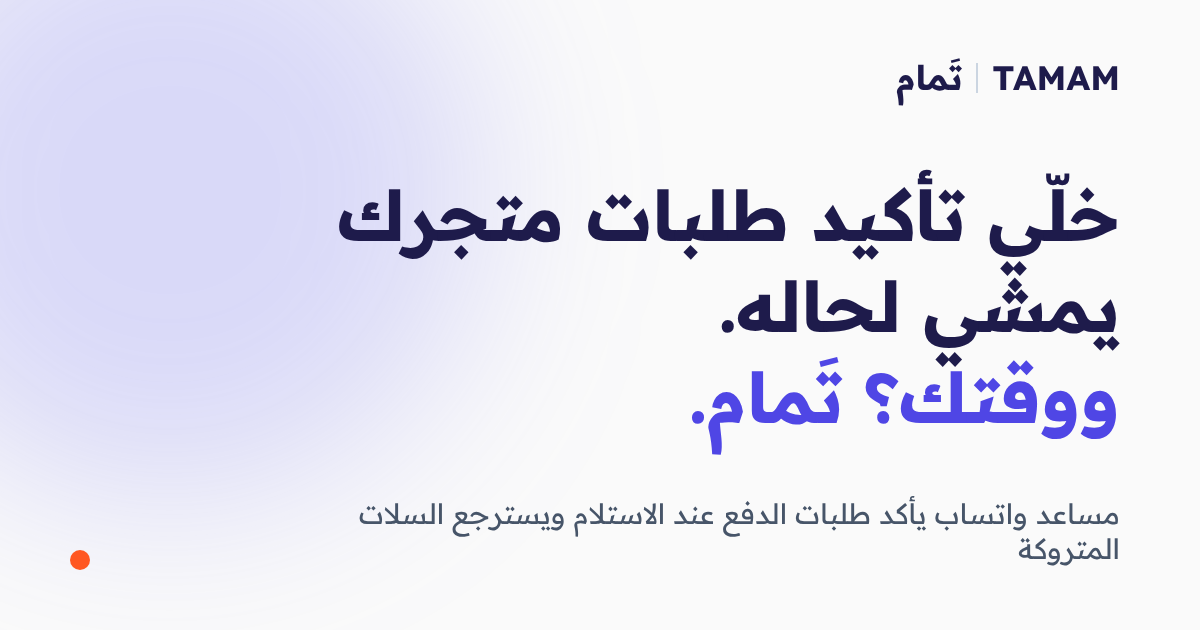
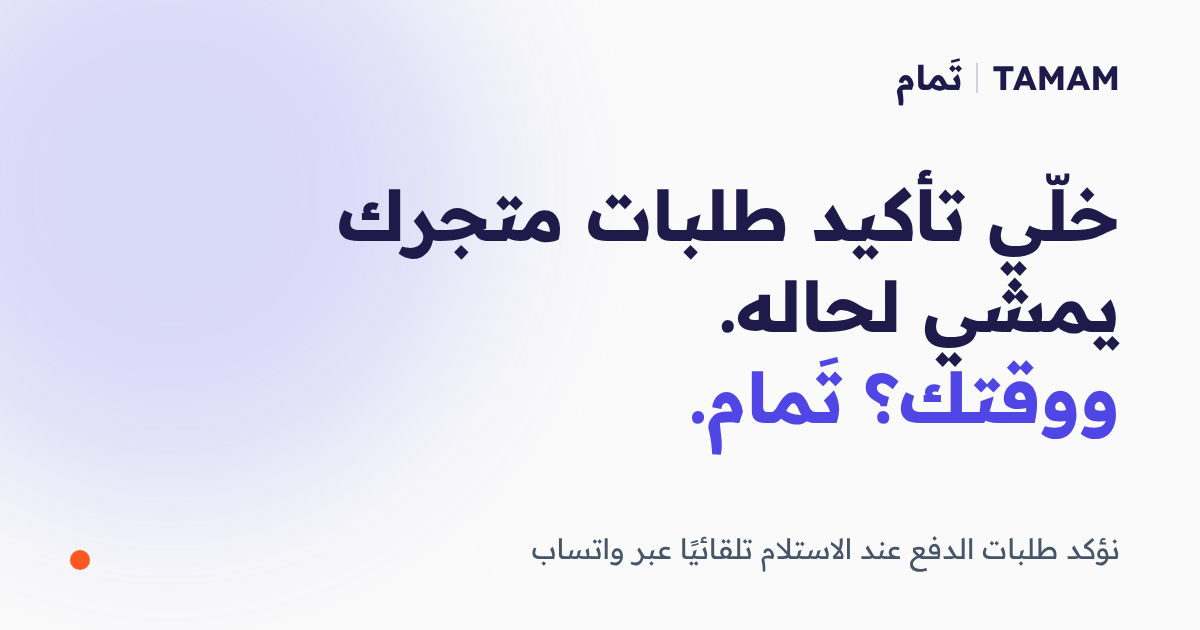
feat(store): single COD-confirmation offer with merchant-facing outputs; page copy aligned to COD

Changed region(s): [[0.3083, 0.7841, 0.925, 0.9048]]

diff --git a/src/niches.ts b/src/niches.ts
@@ -47,6 +47,8 @@ export interface NicheContent {
   packages: Record<string, { name?: string; promise?: string; features?: string[]; badge?: string }>;
   /** Replaces the default 3 package cards entirely (used when a niche sells several separate services). */
   packagesList?: PackageItem[];
+  /** Optional heading override for the packages section. */
+  packagesHeader?: { title: string; sub: string };
   work: {
     real: boolean;
     title: string;
@@ -674,63 +676,70 @@ export const NICHES: Record<NicheId, NicheContent> = {
     audience:
       'ابعته لمتجر يبيع بحدود ١٠ طلبات باليوم أو أكثر، وعنده طلبات دفع عند الاستلام بالمئات شهريًا. المتجر الصغير ما يوفّر له الحل أكثر من تكلفته.',
     meta: {
-      title: 'TAMAM | تَمام — أتمتة المتاجر الإلكترونية: تأكيد الطلبات والسلات',
+      title: 'TAMAM | تَمام — تأكيد طلبات الدفع عند الاستلام عبر واتساب',
       description:
-        'مساعد واتساب لمتجرك يأكد طلبات الدفع عند الاستلام، يسترجع السلات المتروكة، ويرد على «وين طلبي؟» — وفريقك يركّز على البيع.',
+        'نؤكد طلبات الدفع عند الاستلام تلقائيًا عبر واتساب خلال دقائق من الطلب، ونحدّث حالة الطلب في متجرك، وننبّهك للطلبات غير المؤكدة.',
       ogImage: '/og-store.png',
     },
     hero: {
       line1: 'خلّي تأكيد طلبات متجرك يمشي لحاله.',
-      sub: 'مساعد على واتساب يأكد طلبات الدفع عند الاستلام قبل الشحن، يسترجع السلات المتروكة، ويرد على «وين طلبي؟» — وفريقك يركّز على البيع.',
+      sub: 'نؤكد طلبات الدفع عند الاستلام تلقائيًا عبر واتساب خلال دقائق من الطلب، ونحدّث حالة الطلب في متجرك، وننبّهك للطلبات غير المؤكدة — وفريقك يركّز على البيع.',
     },
     chat: {
       contactName: 'متجر الأناقة',
       avatarLetter: 'م',
       clock: '11:02',
       bookedTitle: 'تم تأكيد الطلب',
-      bookedSub: 'جاهز للشحن',
+      bookedSub: 'وتحدّثت حالته في متجرك',
       messages: [
-        { from: 'agent', text: 'هلا أحمد، وصلنا طلبك: عباية كلاسيك، ١٨٩ ر.س عند الاستلام. نأكد الطلب؟', time: '١١:٠٢' },
-        { from: 'customer', text: 'نعم، أكّد', time: '١١:٠٣' },
+        { from: 'agent', text: 'هلا أحمد، وصلنا طلبك: عباية كلاسيك، ١٨٩ ر.س عند الاستلام. اختر: تأكيد، إلغاء، أو تعديل العنوان.', time: '١١:٠٢' },
+        { from: 'customer', text: 'تأكيد', time: '١١:٠٣' },
         { from: 'agent', text: 'تم تأكيد طلبك ✓ نجهزه للشحن ويوصلك رقم التتبع قريبًا.', time: '١١:٠٣' },
         { from: 'customer', text: 'تسلم، بانتظاره', time: '١١:٠٤' },
       ],
     },
-    ribbon: ['تأكيد طلبات COD', 'استرجاع السلات', 'وين طلبي؟', 'ربط الشحن والفواتير'],
+    ribbon: ['تأكيد عبر واتساب', 'تحديث حالة الطلب', 'تنبيه غير المؤكد', 'تقرير يومي'],
     pain: {
-      title: 'الطلبات الغلط والرسائل… تاخذ وقتك من البيع',
-      sub: 'طلبات دفع عند الاستلام ترجع، وسلات تنترك بدون إكمال، وأسئلة «وين طلبي؟» ما تخلص — تفاصيل صغيرة تكلّف المتجر شحن وفرص بيع.',
+      title: 'الطلب اللي ما انأكد… يكلّفك شحن ووقت',
+      sub: 'طلبات دفع عند الاستلام بعناوين غلط أو بدون نية شراء، وشحنات ترجع، وتأكيد يدوي ياخذ وقت فريقك — مشكلة تشغيلية تتكرر كل يوم.',
       closing: 'تحوّل هذي الخطوات المتكررة إلى نظام يمشي مع متجرك.',
       items: {
         'endless-messages': {
-          title: 'أسئلة «وين طلبي؟» ما تخلص',
-          description: 'تتبع الطلبات وتصحيح العناوين وأسئلة متكررة، والرد ياخذ ساعات من يومك.',
-          indicator: 'استفسارات متكررة',
+          title: 'تأكيد يدوي ياخذ وقتك',
+          description: 'تتصل أو تراسل كل عميل لتأكد طلبه، ويضيع وقت الفريق على شغل يتكرر.',
+          indicator: 'تأكيد يدوي',
         },
         'missed-followups': {
-          title: 'سلات تنترك بدون شراء',
-          description: 'عميل أضاف منتج للسلة وطلع، وما أحد ذكّره يكمل طلبه.',
-          indicator: 'مبيعات ضايعة',
+          title: 'طلبات وهمية وعناوين غلط',
+          description: 'طلبات دفع عند الاستلام بعناوين غلط أو بدون نية شراء حقيقية.',
+          indicator: 'طلبات وهمية',
         },
         'repetitive-tasks': {
-          title: 'طلبات وهمية وشحنات راجعة',
-          description: 'طلبات دفع عند الاستلام بعناوين غلط أو ما أحد يستلمها، وتتحمل شحن الذهاب والرجوع.',
-          indicator: 'طلبات راجعة',
+          title: 'شحنات راجعة وخسارة شحن',
+          description: 'الطلب ينشحن وما أحد يستلمه، وتتحمل شحن الذهاب والرجوع.',
+          indicator: 'شحن ضايع',
         },
       },
     },
     packages: {},
+    packagesHeader: {
+      title: 'عرض واحد يحل مشكلة الدفع عند الاستلام',
+      sub: 'مو ميزة تقنية، حل تشغيلي لمشكلة تكلّفك كل شهر.',
+    },
     packagesList: [
       {
         id: 'store-cod-confirmation',
         name: 'تأكيد طلبات الدفع عند الاستلام',
-        badge: 'تأكيد الطلبات',
-        promise: 'كل طلب دفع عند الاستلام يتأكد من العميل قبل الشحن، وما تشحن إلا الطلب المؤكد.',
+        badge: 'عرض تأكيد COD',
+        promise:
+          'نؤكد طلبات الدفع عند الاستلام تلقائيًا عبر واتساب خلال دقائق من الطلب، ونحدّث حالة الطلب في متجرك، ونرسل تنبيهًا للطلبات غير المؤكدة.',
+        featuresTitle: 'اللي تستلمه كتاجر:',
         features: [
-          'رسالة واتساب للعميل فيها المنتج والمبلغ، ويرد بـ«نعم» للتأكيد.',
-          'الطلب ينشحن بعد التأكيد فقط.',
-          'الطلب غير المؤكد يتحول لموظف يتابعه.',
-          'ربط مع منصة متجرك لاستقبال الطلبات تلقائيًا.',
+          'رسالة واتساب فورية بعد طلب الدفع عند الاستلام.',
+          'أزرار: تأكيد / إلغاء / تعديل العنوان / اتصل بي.',
+          'تحديث الطلب تلقائيًا في سلة أو زد أو Shopify.',
+          'تنبيه للمسؤول عند عدم الرد بعد فترة محددة.',
+          'تقرير يومي: عدد الطلبات، نسبة التأكيد، الطلبات الملغاة، والطلبات اللي ما رد عليها العميل.',
         ],
         ctaLabel: 'كلّمنا عن شغلك',
         value: 'ما تشحن إلا طلب أكّده العميل.',
@@ -739,106 +748,17 @@ export const NICHES: Record<NicheId, NicheContent> = {
         duration: 'أسبوع',
         durationNote: 'من الاتفاق لين التشغيل',
       },
-      {
-        id: 'store-abandoned-cart',
-        name: 'استرجاع السلات المتروكة',
-        badge: 'سلات متروكة',
-        promise: 'عميل ترك سلته؟ يوصله تذكير على واتساب برابط إكمال الطلب.',
-        features: [
-          'تذكير واتساب بالسلة المتروكة مع صورة المنتج ورابط الدفع.',
-          'رسالة ثانية وثالثة لمتابعة العميل حسب الاتفاق.',
-          'الرسائل التسويقية بموافقة العميل وحسب سياسات واتساب.',
-          'ربط مع منصة متجرك لمعرفة السلات المتروكة.',
-        ],
-        ctaLabel: 'كلّمنا عن شغلك',
-        value: 'مبيعات كانت راح تضيع ترجع لك.',
-        price: '١٢٠ دولار',
-        priceNote: 'رسوم إعداد لمرة وحدة، غير شامل رسوم رسائل واتساب',
-        duration: '٥ أيام',
-        durationNote: 'من الاتفاق لين التشغيل',
-      },
-      {
-        id: 'store-order-tracking',
-        name: 'بوت «وين طلبي؟» وإشعارات الشحن',
-        badge: 'تتبع الطلب',
-        promise: 'العميل يسأل عن طلبه فيوصله الرد تلقائيًا، وتوصله تحديثات الشحن بدون ما تتدخل.',
-        features: [
-          'رد تلقائي على «وين طلبي؟» بحالة الطلب الفعلية.',
-          'ربط حالة الطلب من شركة الشحن برسائل تلقائية للعميل.',
-          'رد على الأسئلة المتكررة (الشحن، الاستبدال، الدفع).',
-          'تحويل الحالات الصعبة لموظف.',
-        ],
-        ctaLabel: 'كلّمنا عن شغلك',
-        value: 'وقت خدمة العملاء يرجع لك.',
-        price: '١٠٠ دولار',
-        priceNote: 'رسوم إعداد لمرة وحدة، غير شامل رسوم رسائل واتساب',
-        duration: '٥ أيام',
-        durationNote: 'من الاتفاق لين التشغيل',
-      },
-      {
-        id: 'store-shipping-invoice',
-        name: 'ربط الطلب بالشحن والفاتورة',
-        badge: 'ربط الشحن',
-        promise: 'الطلب الجديد يولّد بوليصة الشحن والفاتورة ويرسل رقم التتبع تلقائيًا.',
-        features: [
-          'إنشاء بوليصة الشحن تلقائيًا عند وصول الطلب.',
-          'إصدار الفاتورة وإرسالها للعميل.',
-          'إرسال رقم التتبع للعميل بدون نسخ يدوي.',
-          'ربط مع منصة المتجر وشركة الشحن اللي تتعامل معها.',
-        ],
-        ctaLabel: 'كلّمنا عن شغلك',
-        value: 'ساعات نسخ البيانات اليدوي تنتهي.',
-        price: '٢٠٠ دولار',
-        priceNote: 'رسوم إعداد لمرة وحدة، يختلف حسب شركة الشحن',
-        duration: 'أسبوعين',
-        durationNote: 'حسب شركة الشحن والمنصة',
-      },
-      {
-        id: 'store-inventory-sync',
-        name: 'مزامنة المخزون',
-        badge: 'المخزون',
-        promise: 'كمية المنتج تتحدث لحالها بين كل قنوات البيع، فما ينباع منتج وهو خالص.',
-        features: [
-          'مزامنة الكميات بين الموقع والمنصات والمحل.',
-          'تحديث فوري عند كل بيع أو إرجاع.',
-          'تنبيه لما ينزل المخزون تحت حد تحدده.',
-          'مناسبة للمتاجر اللي تبيع من أكثر من قناة.',
-        ],
-        ctaLabel: 'كلّمنا عن شغلك',
-        value: 'ما ينباع منتج وهو خالص.',
-        price: '٢٥٠ دولار',
-        priceNote: 'رسوم إعداد لمرة وحدة، يختلف حسب عدد القنوات',
-        duration: 'أسبوعين',
-        durationNote: 'حسب عدد القنوات',
-      },
-      {
-        id: 'custom-automation',
-        name: 'أتمتة مخصصة',
-        badge: 'حلول مخصصة بالكامل',
-        promise: 'عندك شغل متكرر في المتجر وما لقيت له حل جاهز؟ نبني لك نظام يناسب طريقة شغلك.',
-        features: [
-          'فهم سير العمل والمهام المتكررة في المتجر.',
-          'اقتراح أتمتة مخصصة وفق الاحتياج الذي يتم الاتفاق عليه.',
-          'تحديد نطاق التنفيذ والتكلفة بعد فهم المطلوب.',
-        ],
-        ctaLabel: 'كلّمنا عن شغلك',
-        value: 'نظام مفصّل على شغلك يوفر وقتك بشكل دائم.',
-        price: 'حسب الشغل',
-        priceNote: 'نحدد السعر بعد فهم المطلوب',
-        duration: 'مفتوحة',
-        durationNote: 'نحددها بعد فهم المطلوب',
-      },
     ],
     work: {
       real: false,
       title: 'كذا يبان تأكيد الطلبات عندك.',
       sub: 'كل طلب دفع عند الاستلام يوصل العميل للتأكيد، وفريقك يشوف حالة كل طلب في مكان واحد.',
       cardTitle: 'لوحة تأكيد الطلبات',
-      desc: 'الطلب الجديد ينرسل للعميل على واتساب للتأكيد، وما ينشحن إلا المؤكد، وغير المؤكد يتحول لموظف.',
+      desc: 'الطلب الجديد ينرسل للعميل على واتساب للتأكيد، وما ينشحن إلا المؤكد، وغير المؤكد يوصلك تنبيه عنه.',
       facts: [
-        'العميل يأكد طلبه من الواتساب بكلمة وحدة.',
-        'الطلب ينشحن بعد التأكيد فقط.',
-        'الطلب غير المؤكد يتحول للفريق للمتابعة.',
+        'العميل يأكد طلبه بضغطة زر على الواتساب.',
+        'حالة الطلب تتحدث تلقائيًا في متجرك.',
+        'تنبيه لك لو العميل ما رد، وتقرير يومي بالنتائج.',
       ],
       listTitle: 'طلبات اليوم',
       rows: [
@@ -851,11 +771,11 @@ export const NICHES: Record<NicheId, NicheContent> = {
     },
     closing: {
       title: 'جاهز تخلّي تأكيد طلبات متجرك يمشي لحاله؟',
-      sub: 'قل لنا كيف تمشي الطلبات والشحن عندك اليوم، ونساعدك تكتشف وين ممكن الأتمتة توفر وقت فريقك وتقلل الطلبات الراجعة.',
+      sub: 'قل لنا كيف تمشي طلبات الدفع عند الاستلام عندك اليوم، ونساعدك تقلل الطلبات الراجعة.',
     },
-    waMessage: 'هلا تَمام، عندي متجر إلكتروني وأبغى أكلمكم عن أتمتة تأكيد الطلبات والسلات المتروكة.',
+    waMessage: 'هلا تَمام، عندي متجر إلكتروني وأبغى أكلمكم عن تأكيد طلبات الدفع عند الاستلام عبر واتساب.',
     outreach:
-      'هلا {contact}، أنا يحيى من تَمام. جهّزت لكم صفحة توضح كيف نخلّي تأكيد طلبات الدفع عند الاستلام واسترجاع السلات المتروكة يمشون تلقائيًا عبر واتساب. تفضلوا الرابط: {url}',
+      'هلا {contact}، أنا يحيى من تَمام. جهّزت لكم صفحة توضح كيف نؤكد طلبات الدفع عند الاستلام تلقائيًا عبر واتساب ونحدّث حالتها في متجركم. تفضلوا الرابط: {url}',
   },
 };
 

diff --git a/src/components/PackagesSection.tsx b/src/components/PackagesSection.tsx
@@ -3,7 +3,7 @@ import {
   Database, CalendarClock, Cpu, Check, ArrowLeft, HelpCircle, Clock,
   PackageCheck, ShoppingCart, Truck, Receipt, Boxes,
 } from 'lucide-react';
-import { TAMAM_PACKAGES } from '../utils/automation-state';
+import { TAMAM_PACKAGES, type PackageItem } from '../utils/automation-state';
 import { ScrollReveal } from './ScrollReveal';
 import { getNiche } from '../niches';
 
@@ -17,6 +17,9 @@ export const PackagesSection: React.FC<PackagesSectionProps> = ({
   onOpenConsultation,
 }) => {
   const niche = getNiche();
+  const packageList: PackageItem[] =
+    niche.packagesList ??
+    TAMAM_PACKAGES.map((basePkg) => ({ ...basePkg, ...(niche.packages[basePkg.id] ?? {}) }));
   const getPackageVisual = (id: string) => {
     switch (id) {
       case 'crm-inquiries':
@@ -84,17 +87,25 @@ export const PackagesSection: React.FC<PackagesSectionProps> = ({
             id="packages-title"
             className="text-3xl sm:text-4xl lg:text-5xl font-heading font-black text-slate-950 tracking-tight leading-[1.25] mb-4 sm:mb-5"
           >
-            حلول تناسب طريقة شغلك
+            {niche.packagesHeader?.title ?? 'حلول تناسب طريقة شغلك'}
           </h2>
           <p className="text-base sm:text-lg text-slate-600 leading-relaxed font-normal">
-            ابدأ من أكثر مهمة تستهلك وقتك، واختر النظام المناسب لعملك.
+            {niche.packagesHeader?.sub ?? 'ابدأ من أكثر مهمة تستهلك وقتك، واختر النظام المناسب لعملك.'}
           </p>
         </div>
       </ScrollReveal>
 
       {/* 3 Packages Cards with Staggered Scroll & Hover Animations */}
-      <div className="grid grid-cols-1 md:grid-cols-3 gap-6 sm:gap-8 w-full max-w-7xl mx-auto">
-        {(niche.packagesList ?? TAMAM_PACKAGES.map((basePkg) => ({ ...basePkg, ...(niche.packages[basePkg.id] ?? {}) }))).map((pkg, idx) => {
+      <div
+        className={`grid grid-cols-1 gap-6 sm:gap-8 w-full mx-auto ${
+          packageList.length === 1
+            ? 'max-w-2xl'
+            : packageList.length === 2
+              ? 'md:grid-cols-2 max-w-4xl'
+              : 'md:grid-cols-3 max-w-7xl'
+        }`}
+      >
+        {packageList.map((pkg, idx) => {
           const visual = getPackageVisual(pkg.id);
           return (
             <ScrollReveal key={pkg.id} delay={idx * 140} className="h-full">
@@ -148,7 +159,7 @@ export const PackagesSection: React.FC<PackagesSectionProps> = ({
                   {/* Features List */}
                   <div className="space-y-3 mb-8">
                     <span className="text-xs font-semibold text-slate-400 block mb-2">
-                      ما تشمله الباقة:
+                      {pkg.featuresTitle ?? 'ما تشمله الباقة:'}
                     </span>
                     {pkg.features.map((feature, fIdx) => (
                       <div key={fIdx} className="flex items-start gap-2.5 text-xs sm:text-sm text-slate-600 leading-relaxed">
@@ -179,6 +190,7 @@ export const PackagesSection: React.FC<PackagesSectionProps> = ({
       </div>
 
       {/* Closing Callout Below Packages */}
+      {packageList.length > 1 && (
       <ScrollReveal delay={200}>
         <div className="mt-14 sm:mt-18 text-center flex flex-col items-center">
           <div className="max-w-2xl mx-auto p-5 sm:p-6 rounded-3xl bg-indigo-50/70 border border-indigo-100/90 shadow-xs flex flex-col sm:flex-row items-center justify-between gap-4">
@@ -201,6 +213,7 @@ export const PackagesSection: React.FC<PackagesSectionProps> = ({
           </div>
         </div>
       </ScrollReveal>
+      )}
     </section>
   );
 };

diff --git a/src/utils/automation-state.ts b/src/utils/automation-state.ts
@@ -94,6 +94,8 @@ export interface PackageItem {
   name: string;
   promise: string;
   features: string[];
+  /** Overrides the default "ما تشمله الباقة:" label above the list. */
+  featuresTitle?: string;
   ctaLabel: string;
   badge?: string;
   /** What the client gets, in one line. */
